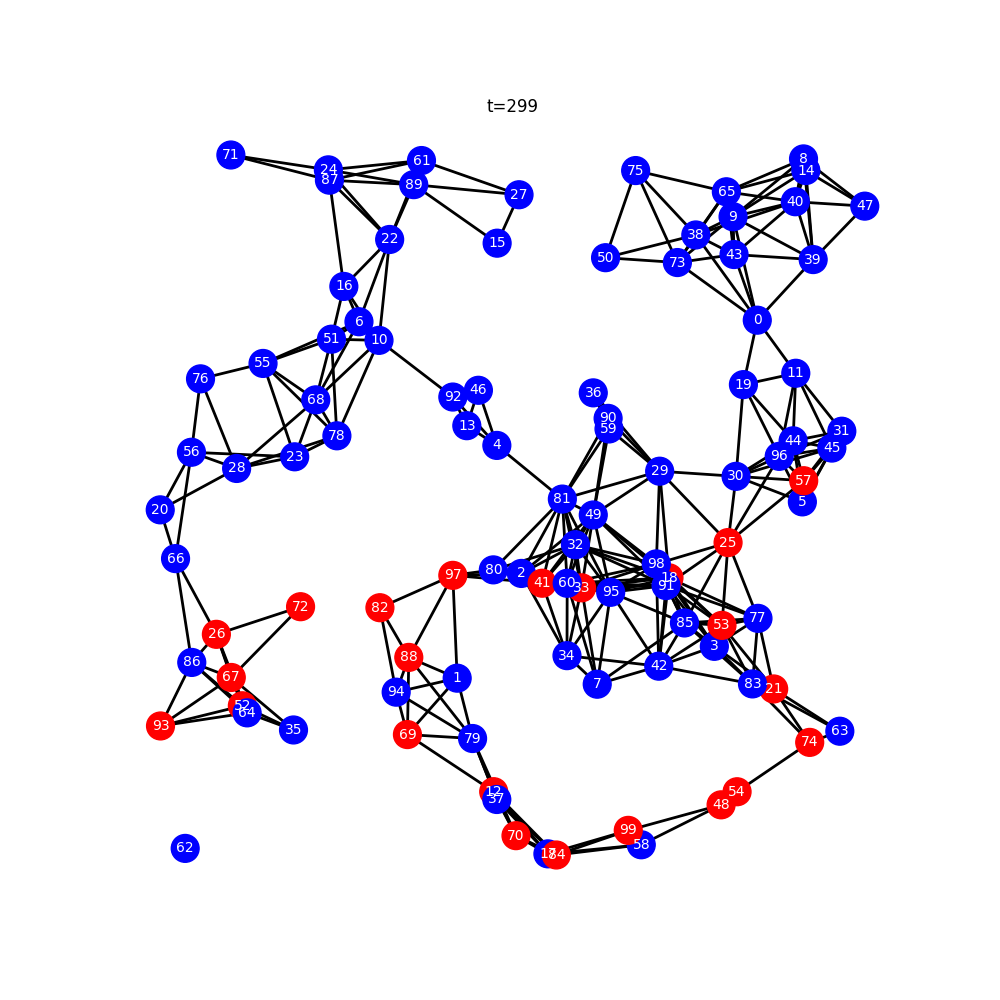
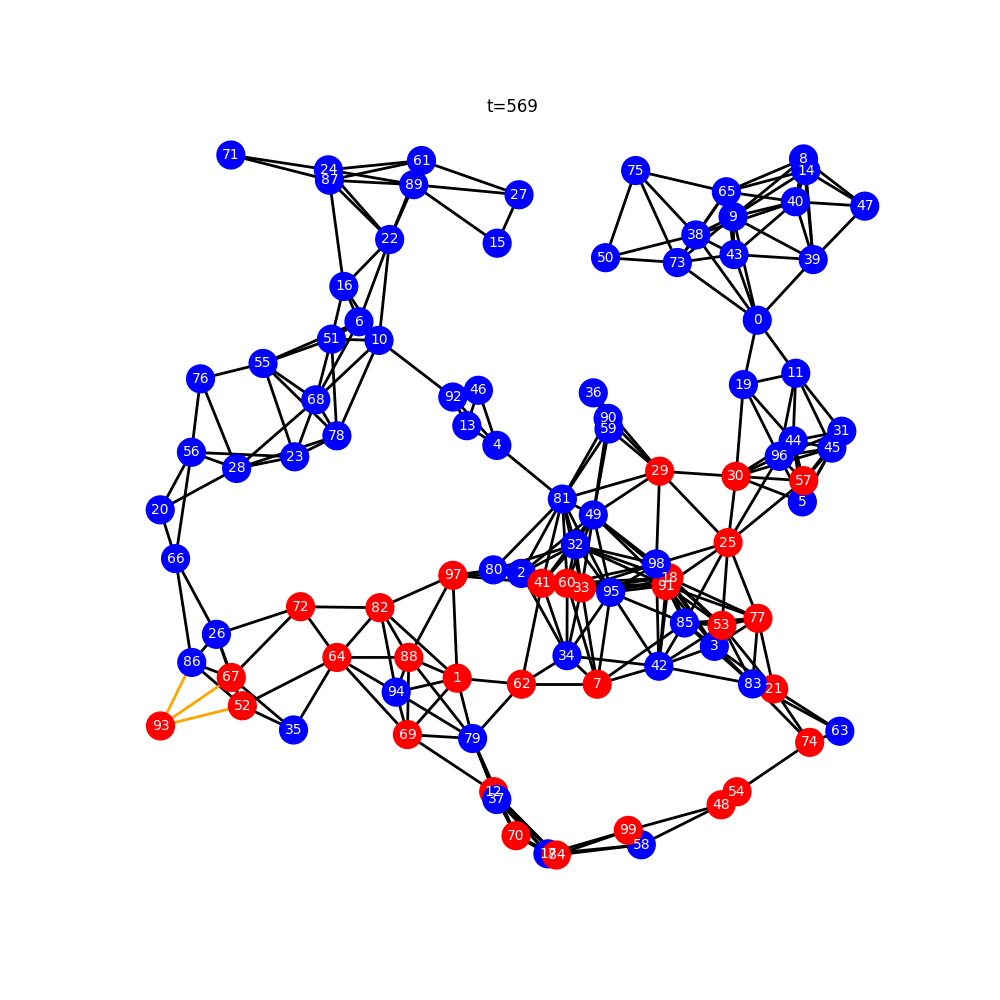
電池の減り方大きすぎるかな？

diff --git a/Main.py b/Main.py
@@ -249,6 +249,7 @@ def main(protocol, isAnimate=False):
     #   nodes[want_content_node].set_packet("www.google.com/logo{}.png".format(want_content_num))  # コンテンツの位置を知らない
 
     plt.cla()
+    plt.clf()
     check_nodes_active(nodes)
     nodes_position = get_nodes_position(nodes)
     nodes_link = get_nodes_link(nodes)
@@ -329,6 +330,7 @@ def main(protocol, isAnimate=False):
   if isAnimate:
     anim = FuncAnimation(fig, animate, init_func=init, frames=t, interval=10, repeat=False)
     anim.save("Export/{}_{}.gif".format(protocol, file_name), writer="imagemagick", fps=fps)
+    plt.close()
   else:
     # unit_time = 0
     # while True:
@@ -352,6 +354,6 @@ def main(protocol, isAnimate=False):
 
 if __name__ == "__main__":
   fps = 50
-  t = 300
+  t = 1000
   random.seed(0)
-  main("slime", isAnimate=True)
+  main("slime", isAnimate=False)
